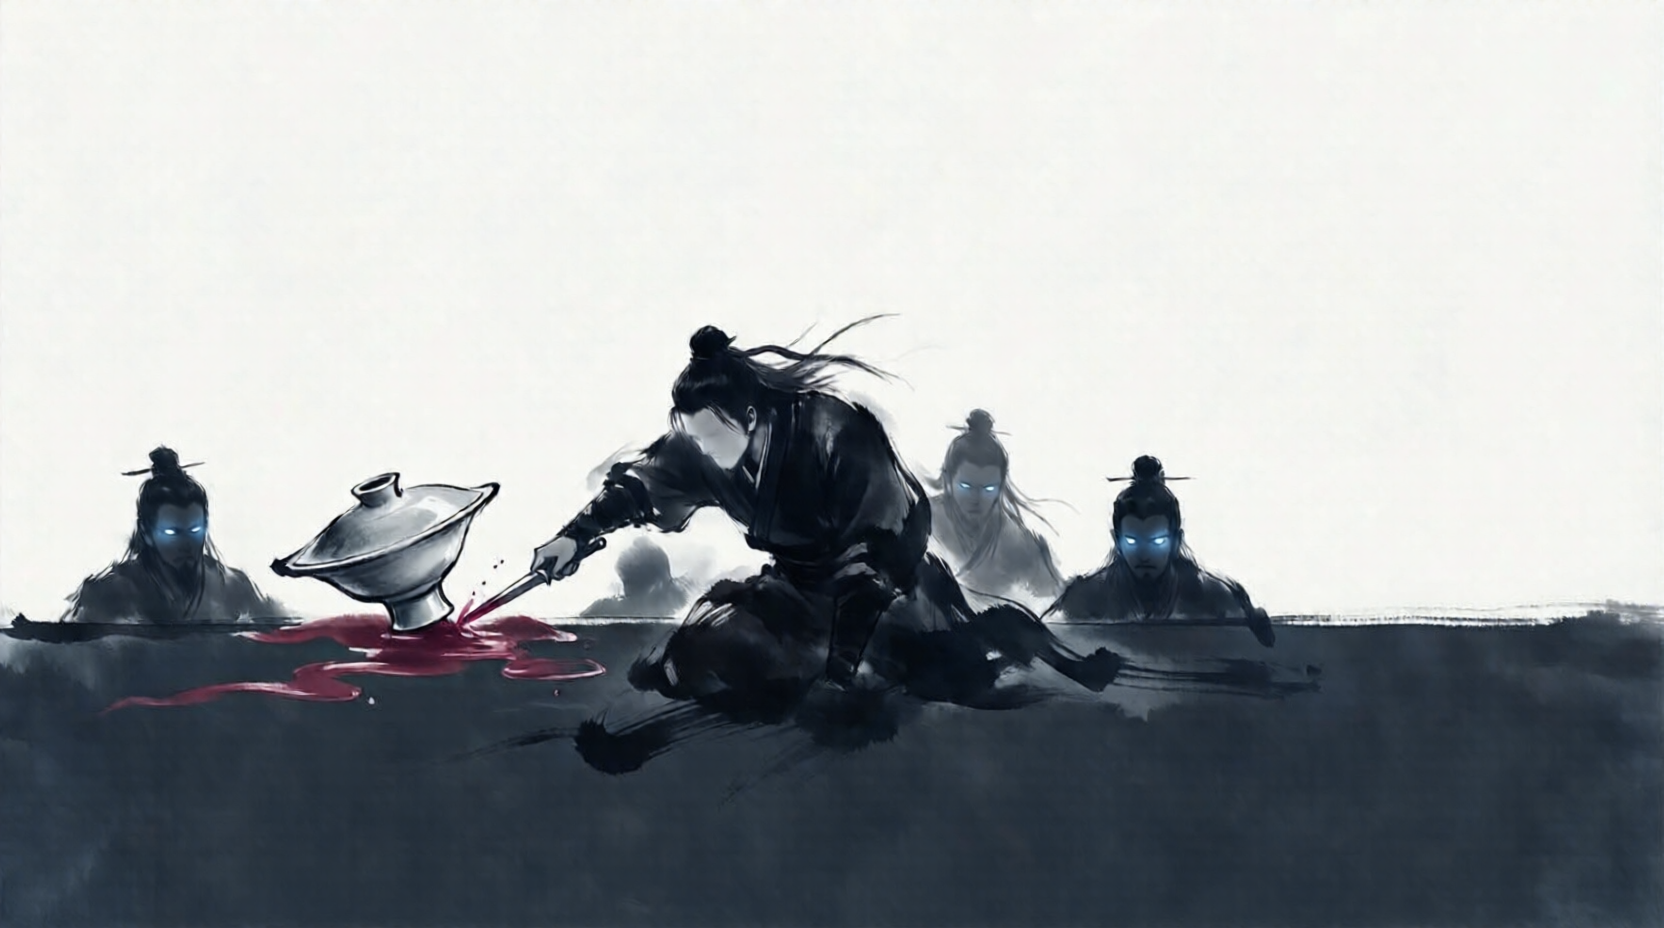
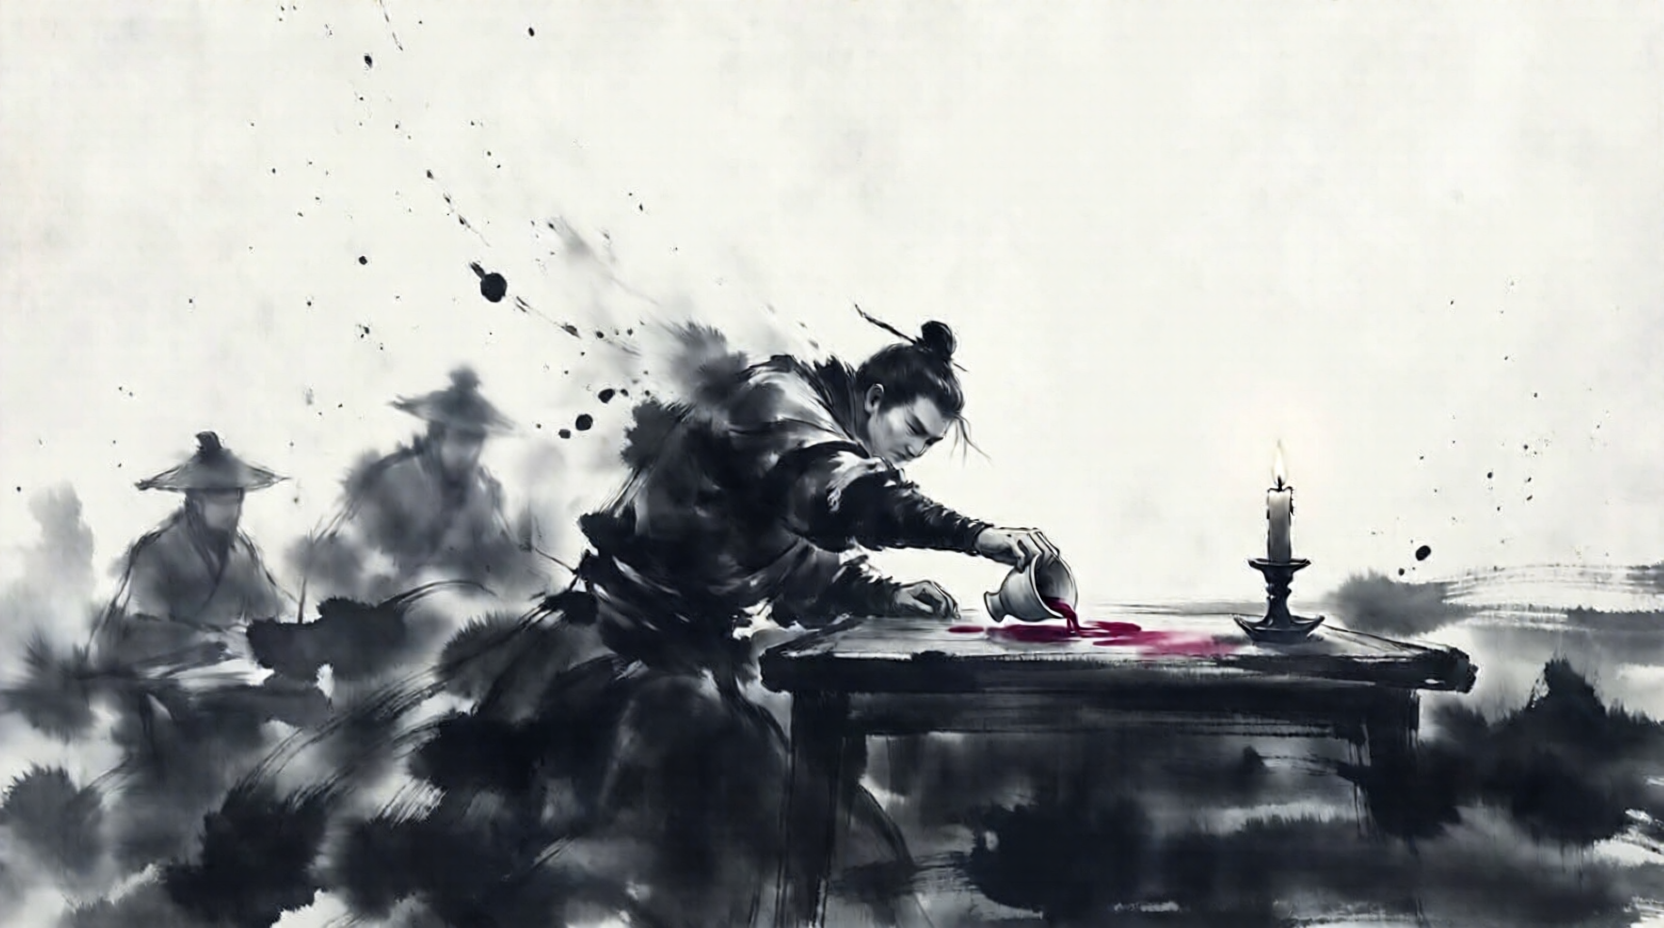
开场动画 v31：新增 tools/local_fix.ps1（擦除+重绘，LiblibAI 无 inpaint 端点的等效做法）+ 07a 换成陶器版

diff --git a/docs/开场动画运镜脚本.md b/docs/开场动画运镜脚本.md
@@ -254,6 +254,26 @@ ffmpeg -i 旁_06.wav -af "silencedetect=noise=-40dB:d=0.25" -f null -
 
 ---
 
+## 五之三、只改一个局部（LiblibAI 没有 inpaint 端点）
+
+**LiblibAI 开放平台只有三个端点**：`text2img` / `img2img` / `status` —— **没有 inpaint**。
+
+而"只换一个杯子、其余 100% 不动"这件事，**纯 img2img 做不到**：
+实测 denoise 0.45 和 0.35 两次，构图都被水墨 LoRA 的先验压过去（变成"一排人物远景"）。
+
+**等效做法（实测一次成功）**：
+
+```powershell
+powershell -File tools\local_fix.ps1 -Shot 07a -Rect "1080,400,170,245" -Prompt "一只陶制酒盏,宽口浅腹,短圈足,不是玻璃杯" -Denoise 0.62
+```
+
+**原理**：先用 `drawbox` 把要改的地方**擦掉**（填成宣纸底色），再走 img2img。
+擦掉后那块**没有原物体的结构**，模型只能按提示词画；其余区域在低 denoise 下基本不变。
+
+**2026-09-28 实测**：07a 的玻璃高脚杯 → 陶制酒器，一次成功，烛台/手/人影/雨夜全保住。
+
+---
+
 ## 六、防呆
 
 - 锚点匹配失败会让 `make_build_filters.mjs` **报错退出（code 3）**，避免声音被错放到片头
